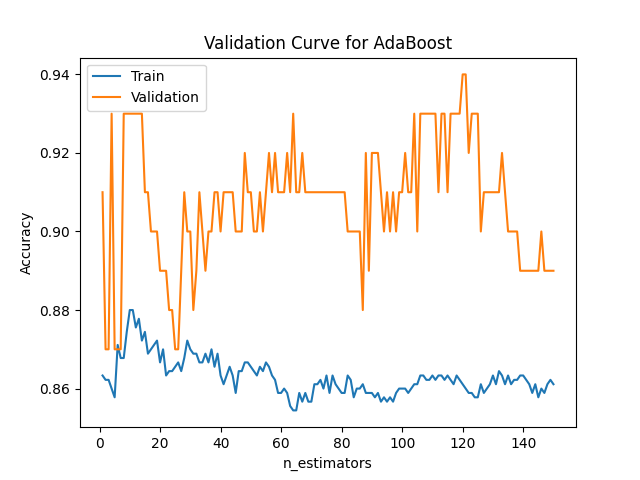
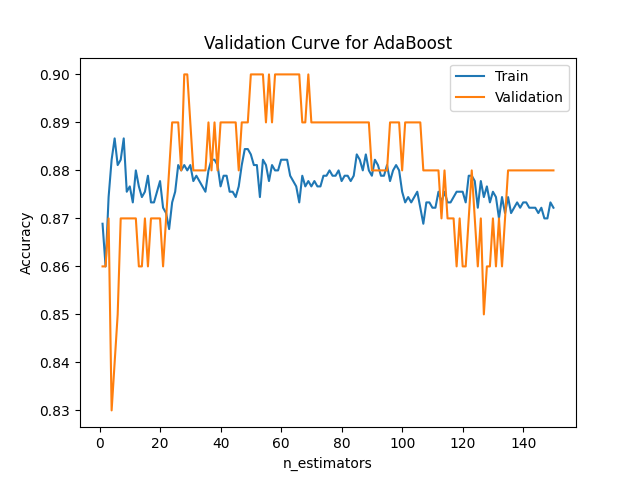
random seed

diff --git a/adaB_validationCurve_n_estimators.py b/adaB_validationCurve_n_estimators.py
@@ -9,6 +9,9 @@ import matplotlib.pyplot as plt
 from sklearn.model_selection import train_test_split, cross_val_score
 import matplotlib.pyplot as plt
 import numpy as np
+import random
+random.seed(26)
+np.random.seed(26)
 online_shoppers_purchasing_intention_dataset = fetch_ucirepo(id=468) 
   
 X = online_shoppers_purchasing_intention_dataset.data.features 
